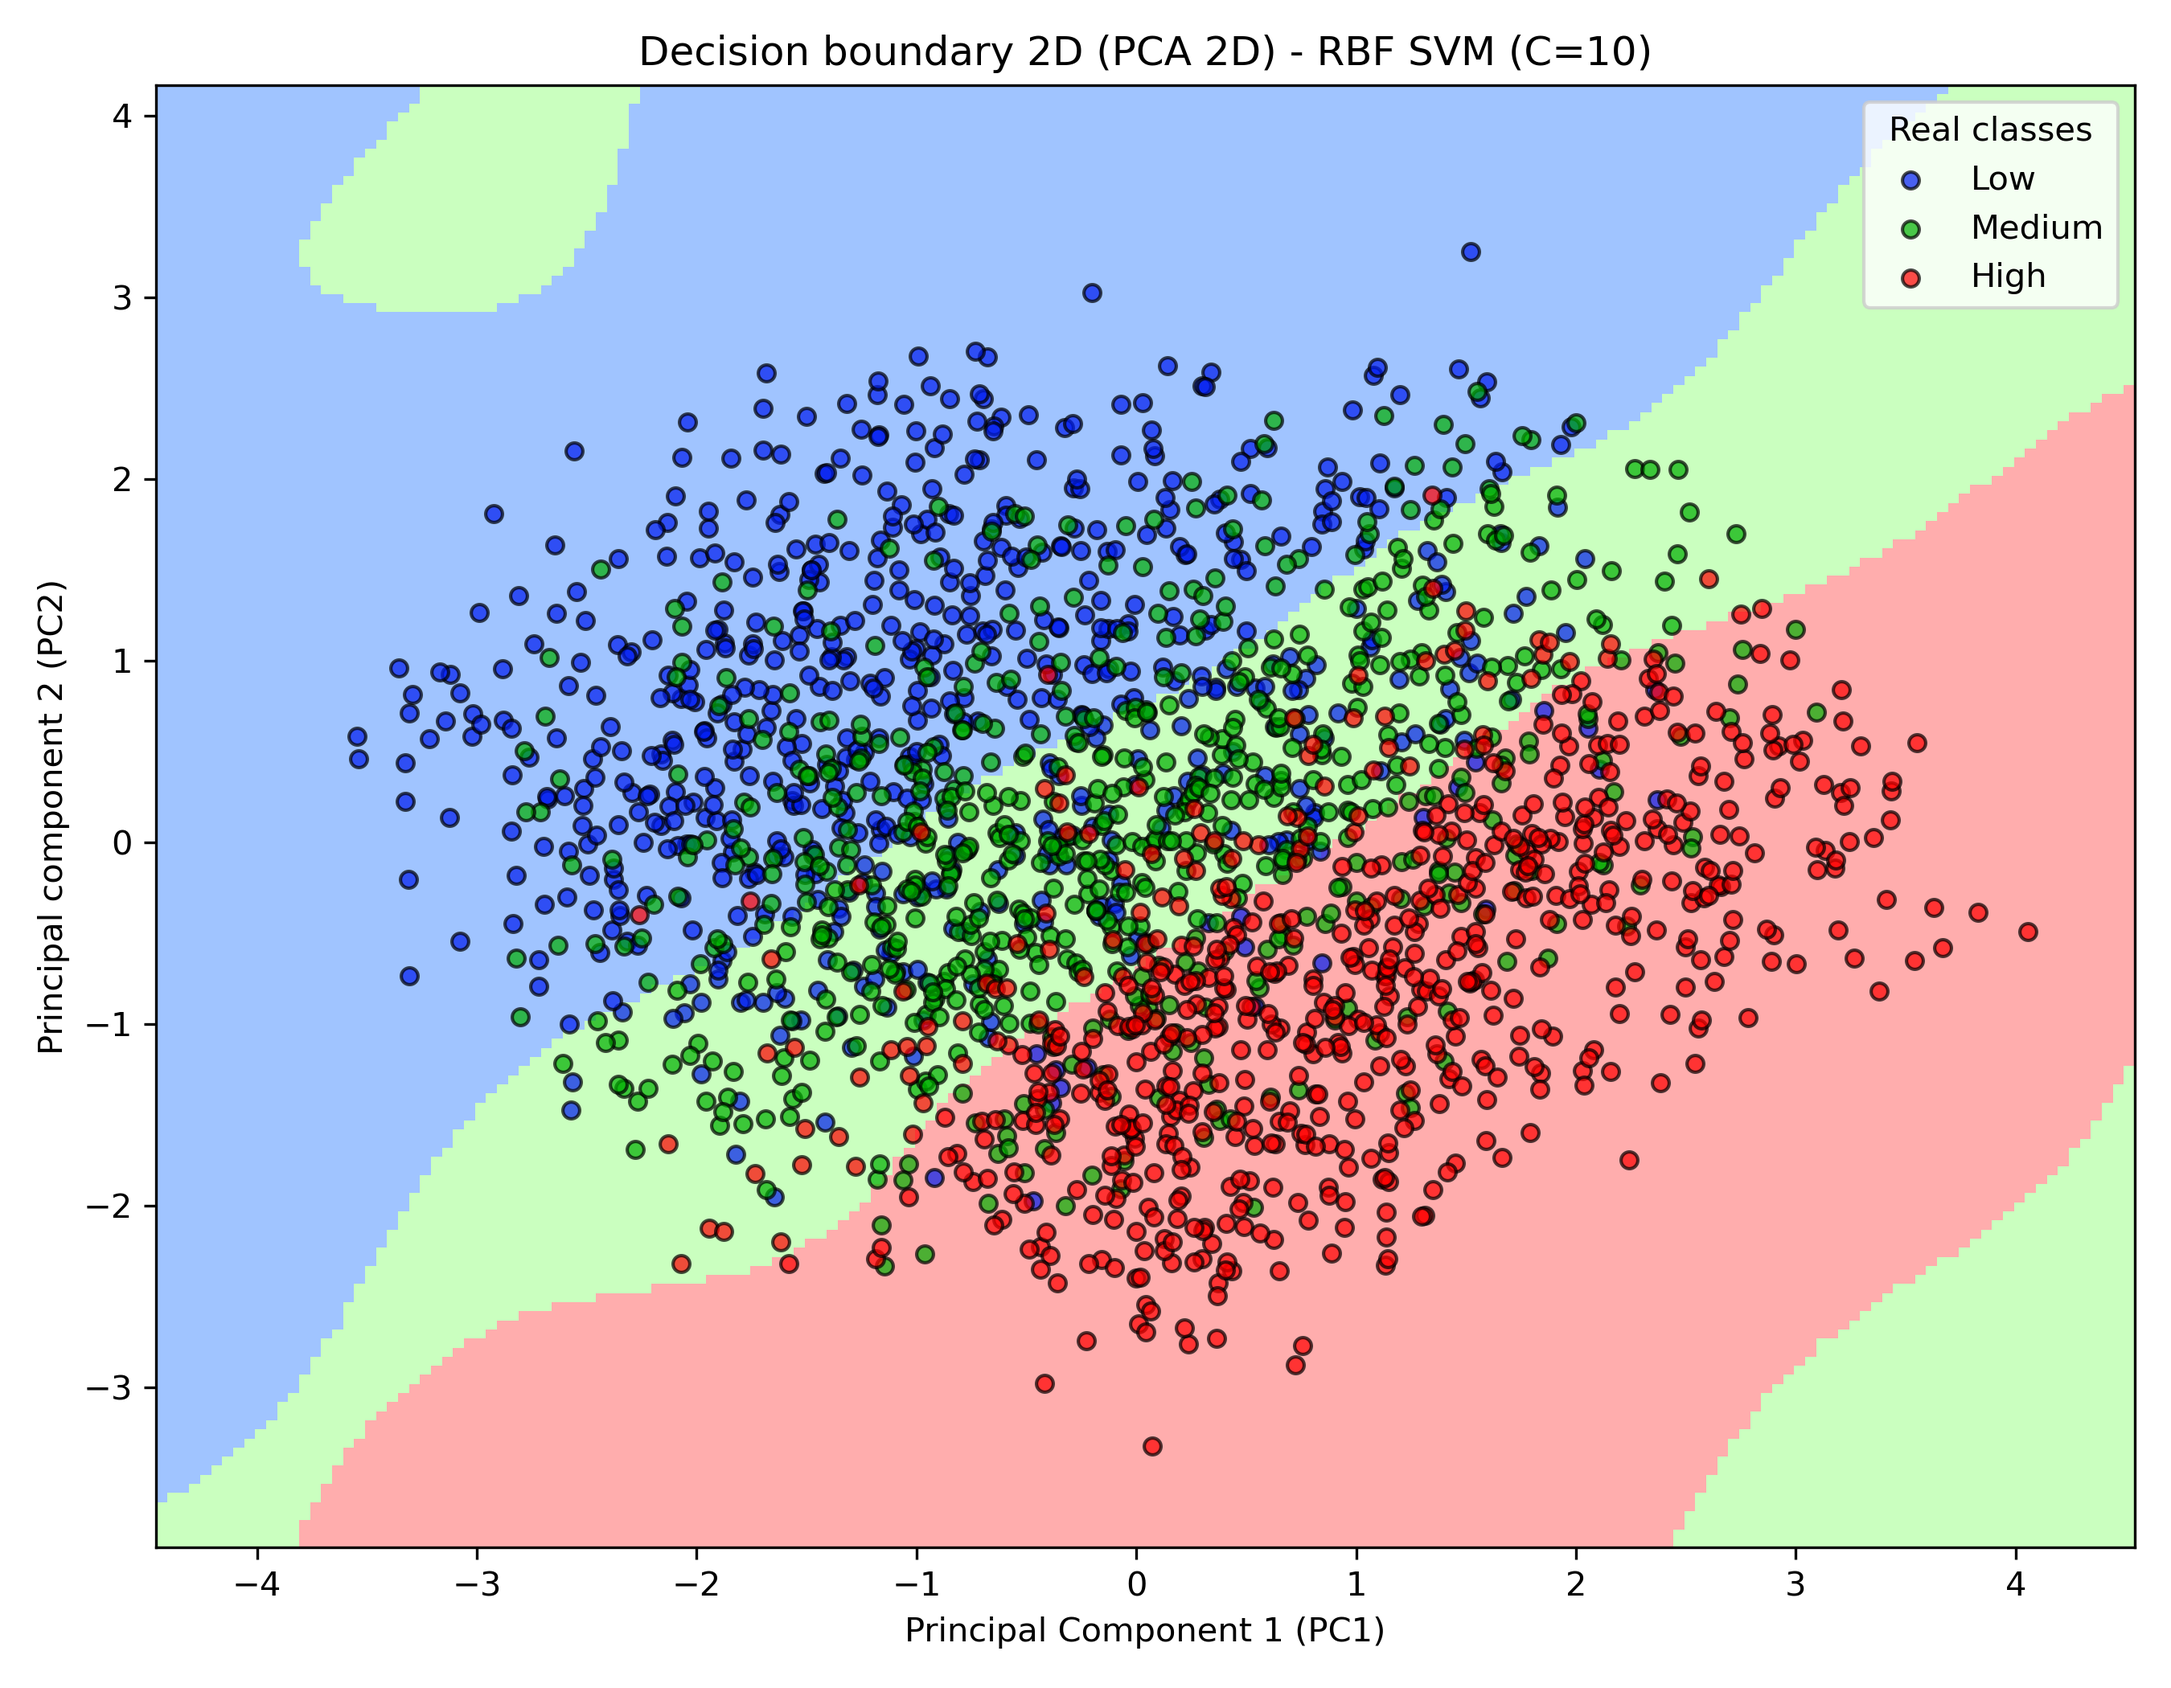
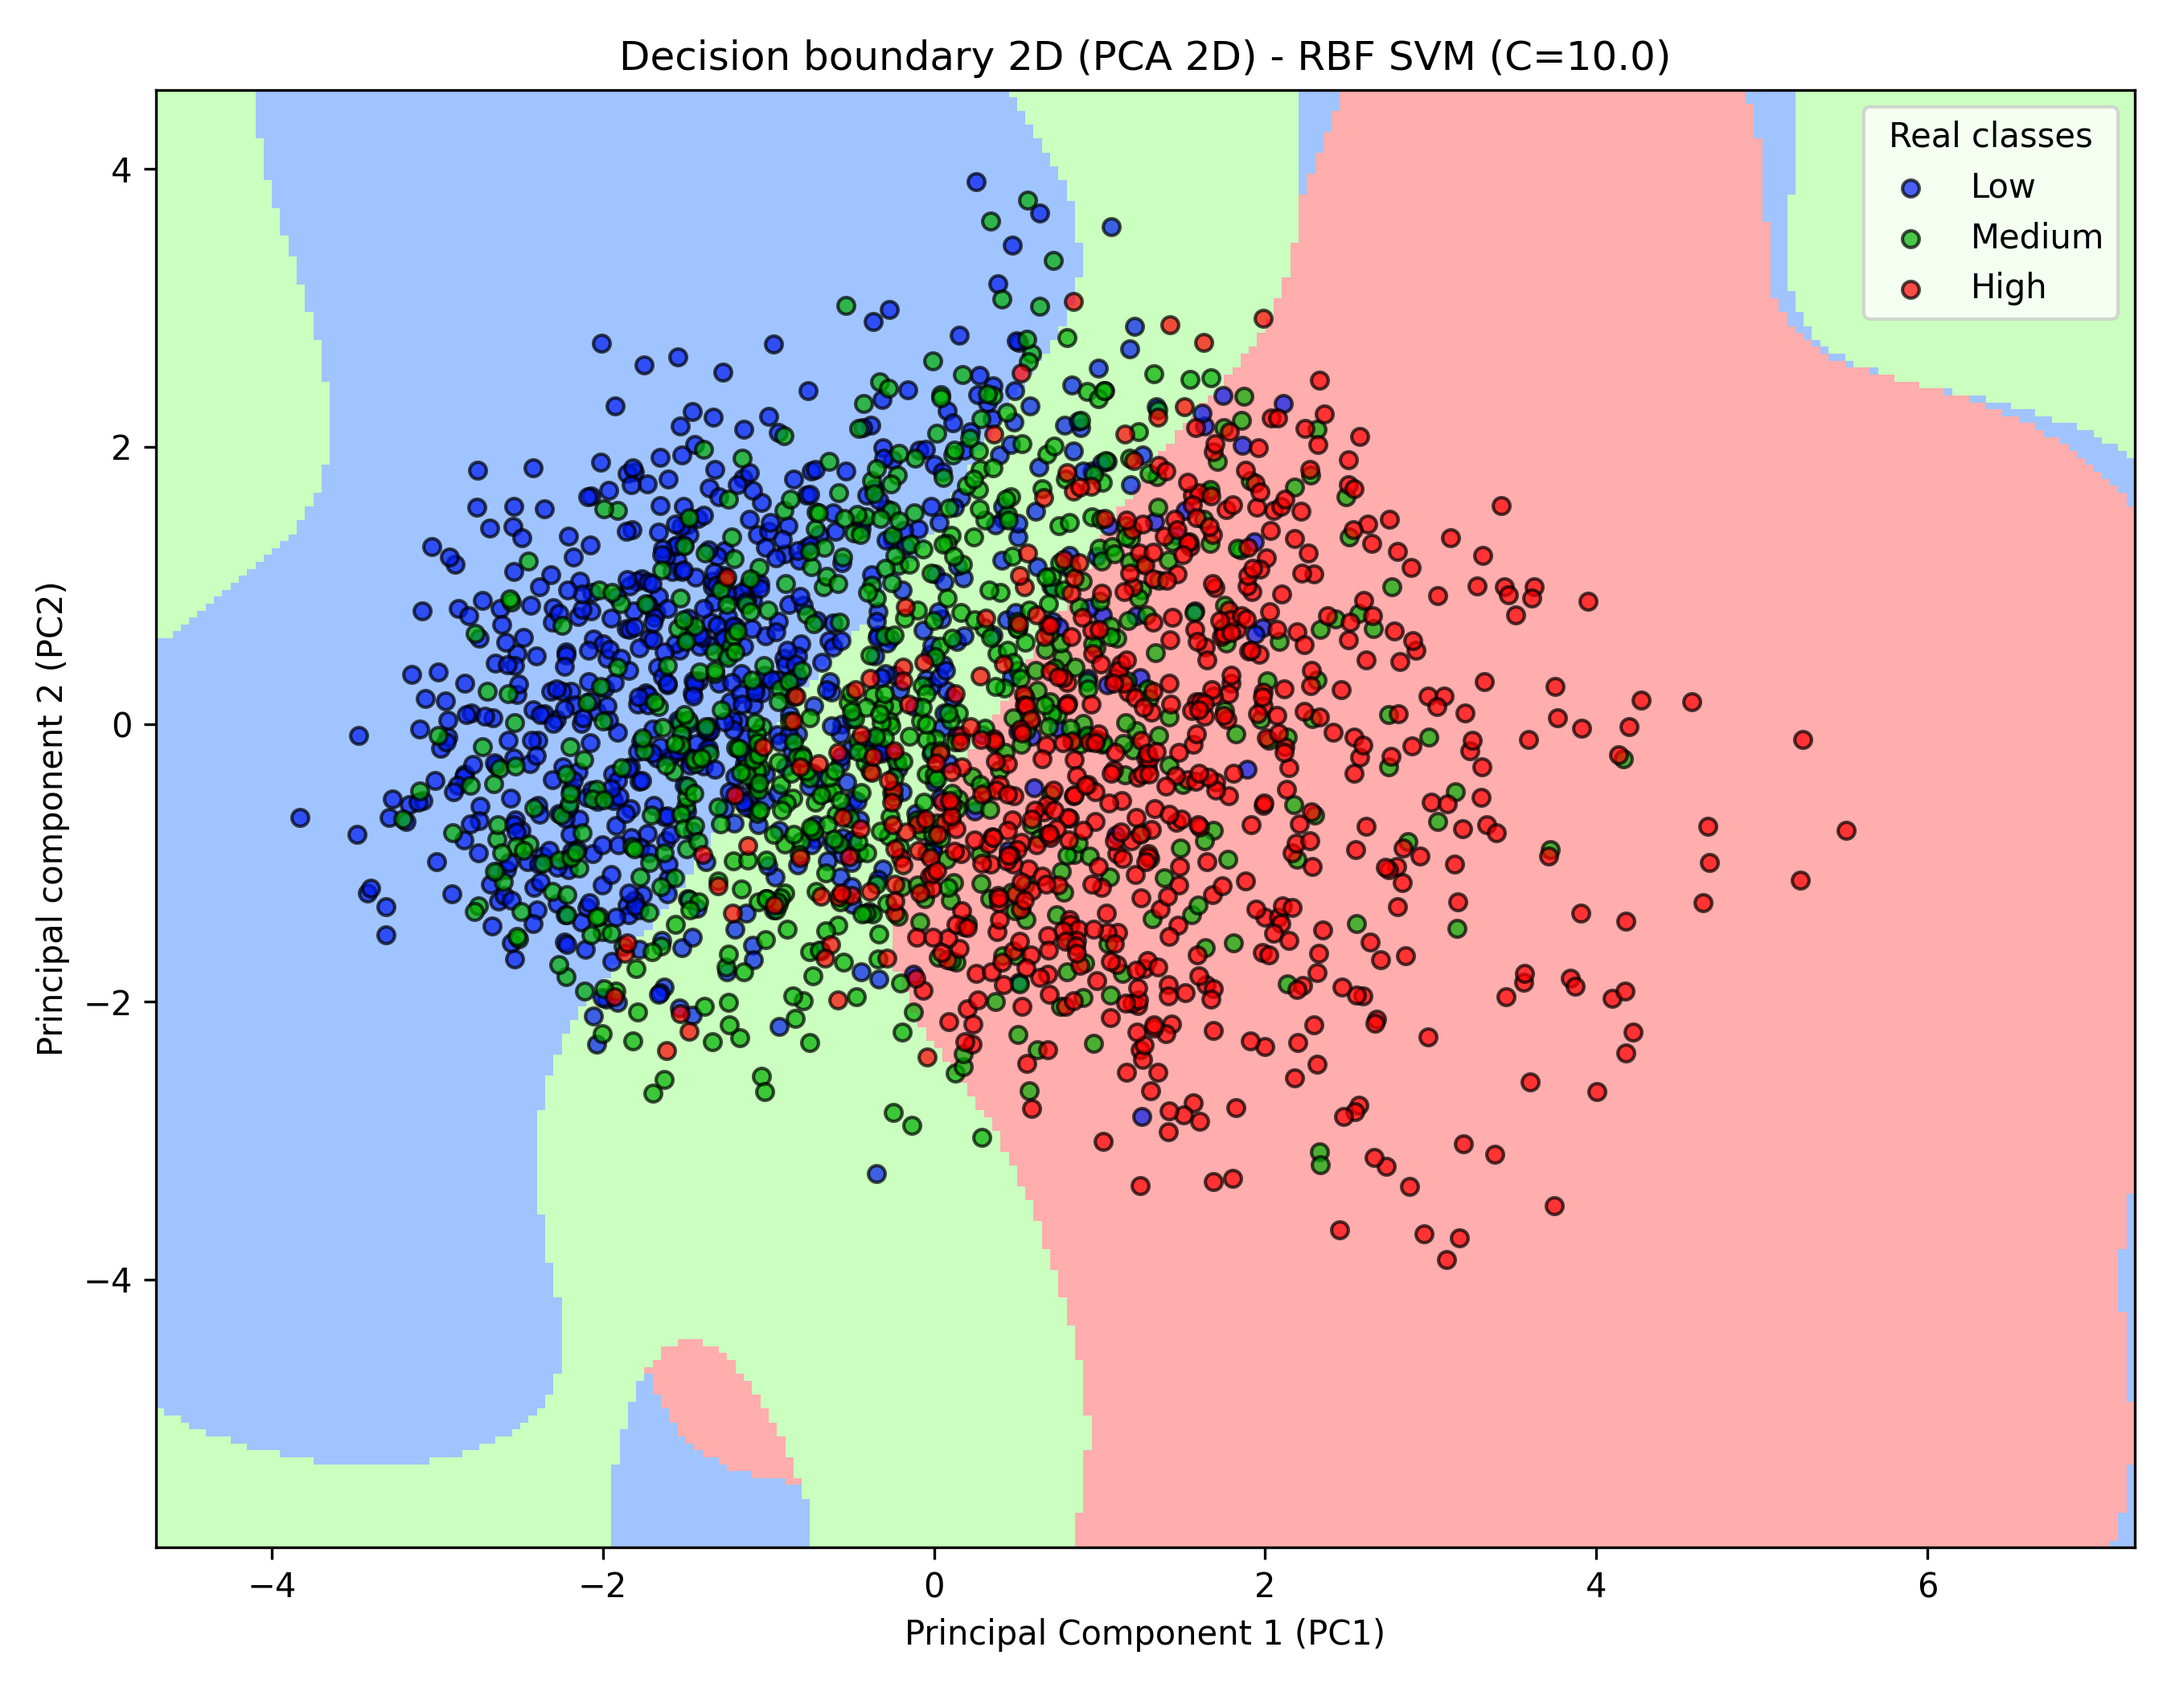
Fix some little mistakes, not many changes in results.
- Add "Soil_Health" and "Water_Deficit" to numerical cols.
- Normalize Soil Health range values

diff --git a/main.py b/main.py
@@ -23,8 +23,8 @@ import pandas as pd
 os.environ["KMP_DUPLICATE_LIB_OK"] = "TRUE"
 
 def main():
-    USE_BIG_DATA = False
-    FORCE_RETRAIN = False  # Set to True to ignore saved models and retrain from scratch
+    USE_BIG_DATA = True
+    FORCE_RETRAIN = True  # Set to True to ignore saved models and retrain from scratch
 
     dataset_path = os.path.join("data", "train.csv")
 
@@ -136,17 +136,17 @@ def main():
         plot_decision_boundaries_2d(
             X_train_processed,
             y_train,
-            model_name="K-NN (K=31)",
+            model_name=f"K-NN (K={best_knn.n_neighbors})",
             model_type="knn",
-            knn_k=31,
+            knn_k=best_knn.n_neighbors,
             big_data=USE_BIG_DATA,
         )
         plot_decision_boundaries_2d(
             X_train_processed,
             y_train,
-            model_name="RBF SVM (C=10)",
+            model_name=f"RBF SVM (C={best_svm.C})",
             model_type="svm_rbf",
-            svm_c=10.0,
+            svm_c=best_svm.C,
             big_data=USE_BIG_DATA,
         )
     else:
@@ -155,7 +155,7 @@ def main():
             y_train,
             model_name="LINEAR SVM",
             model_type="linear_svm",
-            svm_c=1.0,
+            svm_c=best_svm.C,
             big_data=USE_BIG_DATA,
         )
 

diff --git a/src/models/models.py b/src/models/models.py
@@ -53,7 +53,7 @@ def run_random_forest(X_train, y_train):
         'min_samples_leaf': [1, 2, 4],
         
     }
-    rf = RandomForestClassifier(class_weight='balanced', random_state=42, n_jobs=-1)
+    rf = RandomForestClassifier(class_weight='balanced', random_state=42)
     grid_search = GridSearchCV(rf, param_grid, cv=3, scoring='f1_macro', n_jobs=-1, verbose=3)
     grid_search.fit(X_train, y_train)
     
@@ -62,7 +62,7 @@ def run_random_forest(X_train, y_train):
     return grid_search.best_estimator_, grid_search.cv_results_
 
 def run_xgboost(X_train, y_train):
-    xgb = XGBClassifier(n_estimators=100, random_state=42, n_jobs=-1, eval_metric='mlogloss')
+    xgb = XGBClassifier(n_estimators=100, random_state=42, eval_metric='mlogloss')
     param_grid = {
         'n_estimators': [100, 150, 200],  # Numero di alberi sequenziali da costruire
         'max_depth': [4, 6],              # Profondità massima dell'albero (più è alto, più rischia overfitting)

diff --git a/src/metrics/visualization.py b/src/metrics/visualization.py
@@ -38,7 +38,8 @@ def plot_decision_boundaries_2d(
     knn_k=31,
     svm_c=10.0,
     output_dir="results_notebook",
-    big_data=False
+    big_data=False,
+    random_state=42,
 ):
     print_log(f"Loading decision boundary plot for: {model_name}")
     pca = PCA(n_components=2, random_state=42)
@@ -73,8 +74,9 @@ def plot_decision_boundaries_2d(
     plt.pcolormesh(xx, yy, Z, cmap=cmap_light, shading="auto")
 
     # Sovrappone i punti reali del dataset (ne stampiamo un subset per non affollare il grafico)
+    rng = np.random.RandomState(random_state)
     subset_size = min(2000, len(X_train_pca))
-    indices = np.random.choice(len(X_train_pca), subset_size, replace=False)
+    indices = rng.choice(len(X_train_pca), subset_size, replace=False)
 
     target_names = ["Low", "Medium", "High"]
     for class_idx, color in enumerate(cmap_bold):

diff --git a/src/data/preprocessing.py b/src/data/preprocessing.py
@@ -53,7 +53,7 @@ def features_engineering(df):
 
     # Soil Health (Carbonio Organico scalato sulla deviazione dal pH ottimale di 6.5)
     ph_deviation = np.abs(df['Soil_pH'] - 6.5)
-    df['Soil_Health'] = df['Organic_Carbon'] / (ph_deviation + 1e-5)
+    df['Soil_Health'] = np.log1p(df['Organic_Carbon'] / (ph_deviation + 1e-5))
 
     # Water Deficit (Rapporto tra domanda atmosferica e umidità reale del suolo)
     df['Water_Deficit'] = evap_proxy / (df['Soil_Moisture'] + 1e-5)
@@ -74,6 +74,7 @@ def get_pipeline_transformer():
         'Temperature_C', 'Humidity', 'Sunlight_Hours', 
         'Wind_Speed_kmh', 'Field_Area_hectare',
         'Total_water_input', 'Thermal_impact',
+        'Soil_Health', 'Water_Deficit'
         # 'Rainfall_mm', 'Previous_Irrigation_mm', 'Evaporation_proxy'
     ]
 
